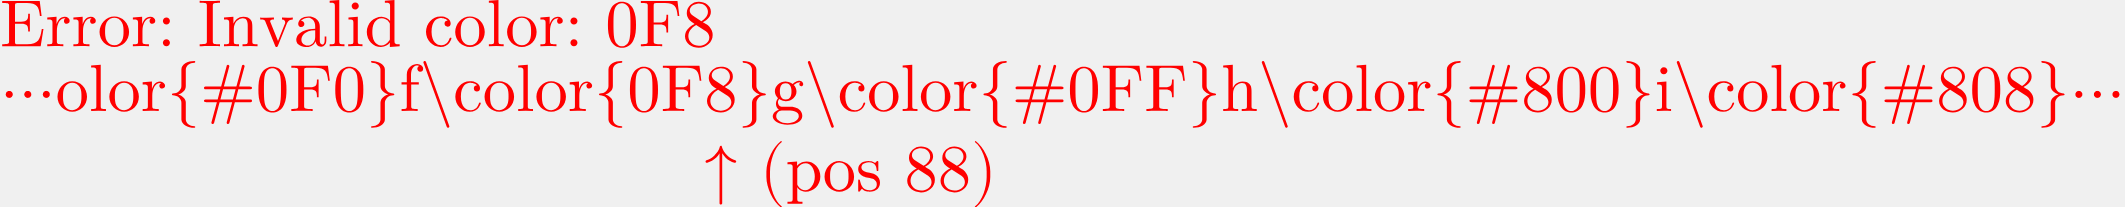
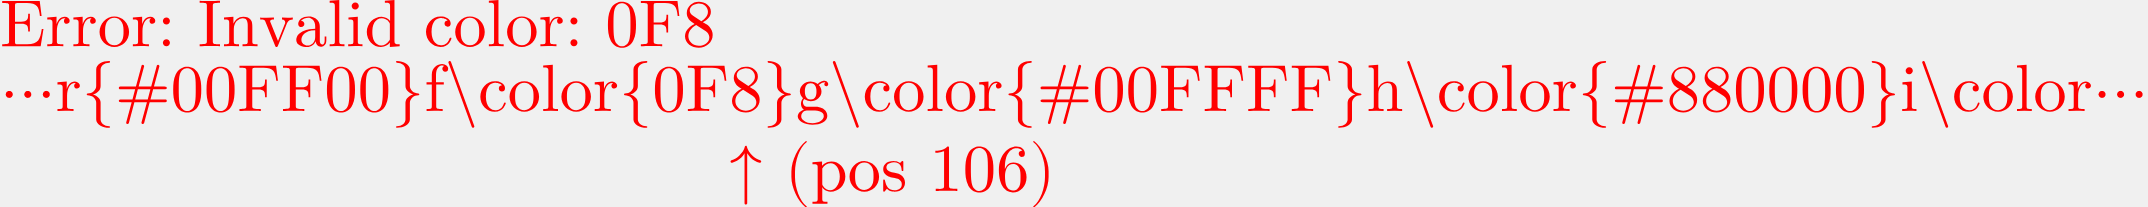
Update CSharpMath.Rendering.Tests

diff --git a/CSharpMath.Rendering.Tests/TestRenderingSharedData.cs b/CSharpMath.Rendering.Tests/TestRenderingSharedData.cs
@@ -40,8 +40,8 @@ namespace CSharpMath.Rendering.Tests {
     public const string Cyrillic = @"А а\ Б б\ В в\ Г г\ Д д\ Е е\ Ё ё\ Ж ж\\ З з\ И и\ Й й\ К к\ Л л\ М м\ Н н\ О о\ П п" +
                                    @"\\ Р р\ С с\ Т т\ У у\ Ф ф\ Х х\ Ц ц\ Ч ч\\ Ш ш\ Щ щ\ Ъ ъ\ Ы ы\ Ь ь\ Э э\ Ю ю\ Я я";
     public const string Color = @"\color{#000088}a\color{#0000FF}b\color{#008800}c\color{#008888}d\color{#0088FF}e\color{#00FF00}f\color{#00FF88}g\color{#00FFFF}h\color{#880000}i\color{#880088}j\color{#8800FF}k\color{#888800}l\color{#888888}m\color{#8888FF}n\color{#88FF00}o\color{#88FF88}p\color{#88FFFF}q\color{#FF0000}r\color{#FF0088}s\color{#FF00FF}t\color{#FF8800}u\color{#FF8888}v\color{#FF88FF}w\color{#FFFF00}x\color{#FFFF88}y\color{#FFFFFF}z";
-    //public const string ErrorInvalidCommand = @"\color{#000088}a\color{#0000FF}b\color{#008800}c\color{#008888}d\color{#0088FF}e\color{#00FF00}f\color{#00FF88}g\color{#00FFFF}h\color{#880000}i\color{#880088}j\color{#8800FF}k\color{#888800}l\color{#888888}m\color{#8888FF}n\color{#88FF00}o\color{#88FF88}p\color{#88FFFF}q\color{#FF0000}r\color{#FF0088}s\color{#FF00FF}t\color{#FF8800}u\color{#FF8888}v\color{#FF88FF}w\color{#FFFF00}x\color{#FFFF88}y\color{#FFFFFF}\notacommand";
-    //public const string ErrorInvalidColor = @"\color{#000088}a\color{#0000FF}b\color{#008800}c\color{#008888}d\color{#0088FF}e\color{#00FF00}f\color{0F8}g\color{#00FFFF}h\color{#880000}i\color{#880088}j\color{#8800FF}k\color{#888800}l\color{#888888}m\color{#8888FF}n\color{#88FF00}o\color{#88FF88}p\color{#88FFFF}q\color{#FF0000}r\color{#FF0088}s\color{#FF00FF}t\color{#FF8800}u\color{#FF8888}v\color{#FF88FF}w\color{#FFFF00}x\color{#FFFF88}y\color{#FFFFFF}z";
+    public const string ErrorInvalidCommand = @"\color{#000088}a\color{#0000FF}b\color{#008800}c\color{#008888}d\color{#0088FF}e\color{#00FF00}f\color{#00FF88}g\color{#00FFFF}h\color{#880000}i\color{#880088}j\color{#8800FF}k\color{#888800}l\color{#888888}m\color{#8888FF}n\color{#88FF00}o\color{#88FF88}p\color{#88FFFF}q\color{#FF0000}r\color{#FF0088}s\color{#FF00FF}t\color{#FF8800}u\color{#FF8888}v\color{#FF88FF}w\color{#FFFF00}x\color{#FFFF88}y\color{#FFFFFF}\notacommand";
+    public const string ErrorInvalidColor = @"\color{#000088}a\color{#0000FF}b\color{#008800}c\color{#008888}d\color{#0088FF}e\color{#00FF00}f\color{0F8}g\color{#00FFFF}h\color{#880000}i\color{#880088}j\color{#8800FF}k\color{#888800}l\color{#888888}m\color{#8888FF}n\color{#88FF00}o\color{#88FF88}p\color{#88FFFF}q\color{#FF0000}r\color{#FF0088}s\color{#FF00FF}t\color{#FF8800}u\color{#FF8888}v\color{#FF88FF}w\color{#FFFF00}x\color{#FFFF88}y\color{#FFFFFF}z";
     public const string ErrorMissingBrace = @"}z";
   }
 }
